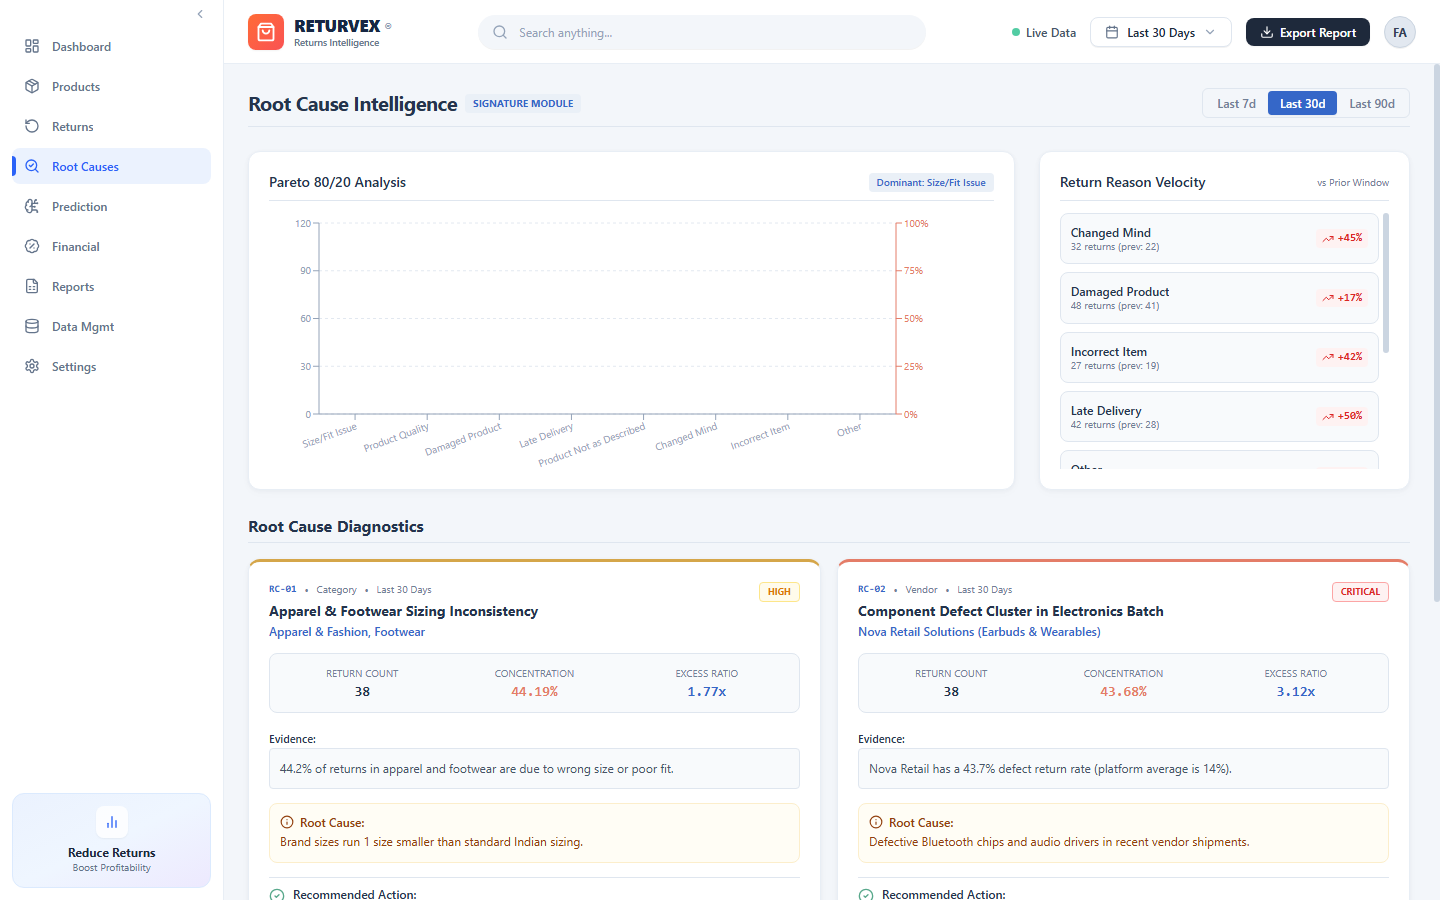
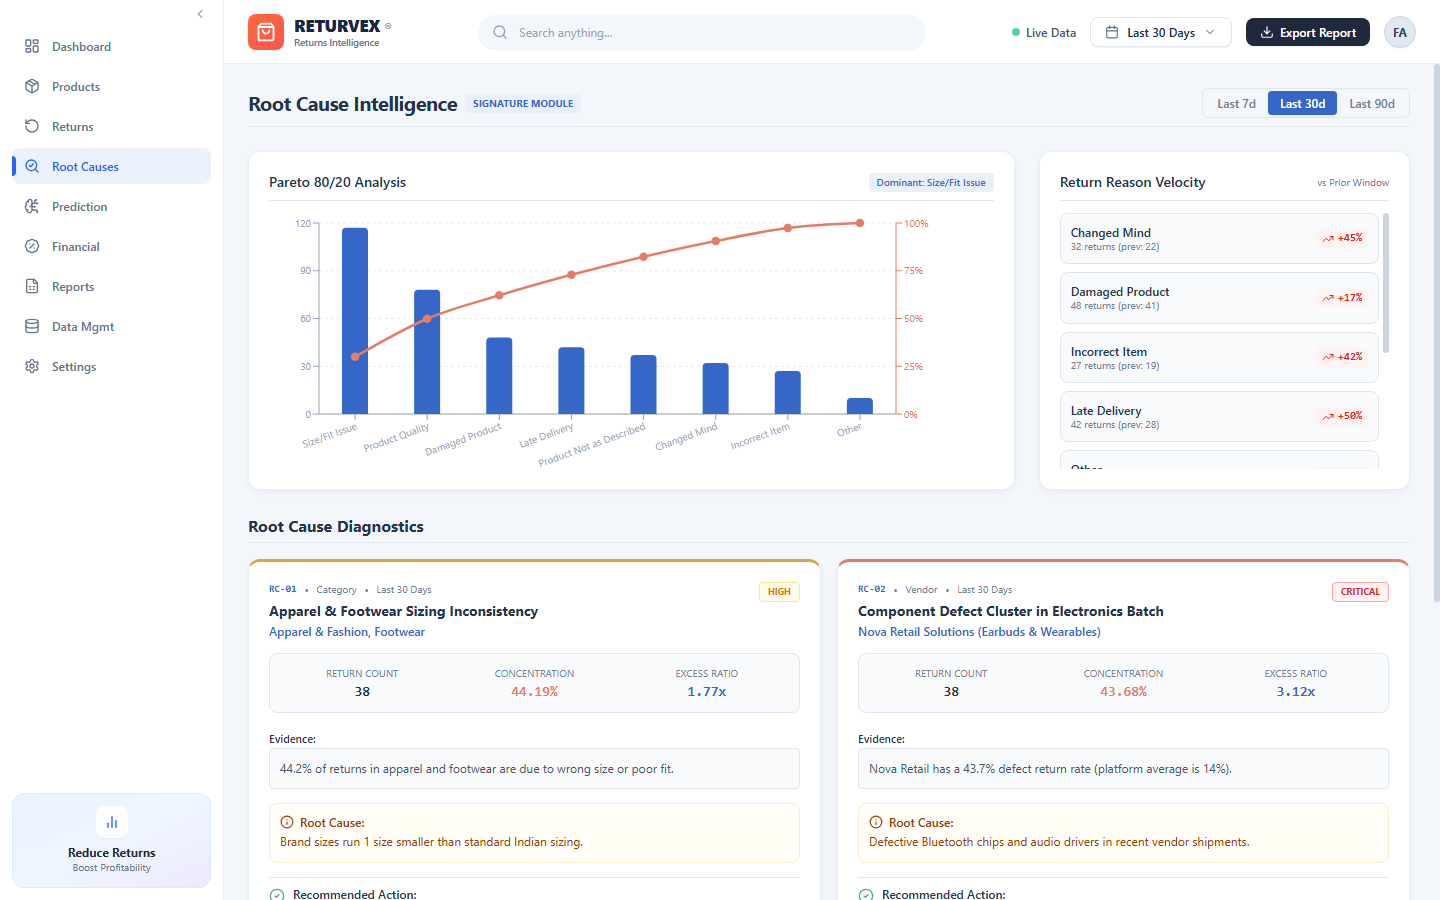
fix(screenshots): update 3rd screenshot with rendered Pareto 80/20 chart

diff --git a/frontend/src/pages/RootCausesPage.tsx b/frontend/src/pages/RootCausesPage.tsx
@@ -76,7 +76,7 @@ export const RootCausesPage: React.FC = () => {
               </div>
 
               <div className="h-64 w-full">
-                <ResponsiveContainer width="100%" height="100%">
+                <ResponsiveContainer width="100%" height={256} minHeight={256}>
                   <ComposedChart data={data.pareto_data} margin={{ top: 10, right: 20, bottom: 25, left: -10 }}>
                     <CartesianGrid strokeDasharray="3 3" vertical={false} stroke="#E2E8F0" />
                     <XAxis
@@ -109,7 +109,7 @@ export const RootCausesPage: React.FC = () => {
                         return [val, name];
                       }}
                     />
-                    <Bar yAxisId="left" dataKey="count" fill="#3567C8" radius={[4, 4, 0, 0]} barSize={26} />
+                    <Bar yAxisId="left" dataKey="count" fill="#3567C8" radius={[4, 4, 0, 0]} barSize={26} isAnimationActive={false} />
                     <Line
                       yAxisId="right"
                       type="monotone"
@@ -117,6 +117,7 @@ export const RootCausesPage: React.FC = () => {
                       stroke="#E47D68"
                       strokeWidth={2.5}
                       dot={{ r: 3, fill: "#E47D68" }}
+                      isAnimationActive={false}
                     />
                   </ComposedChart>
                 </ResponsiveContainer>
